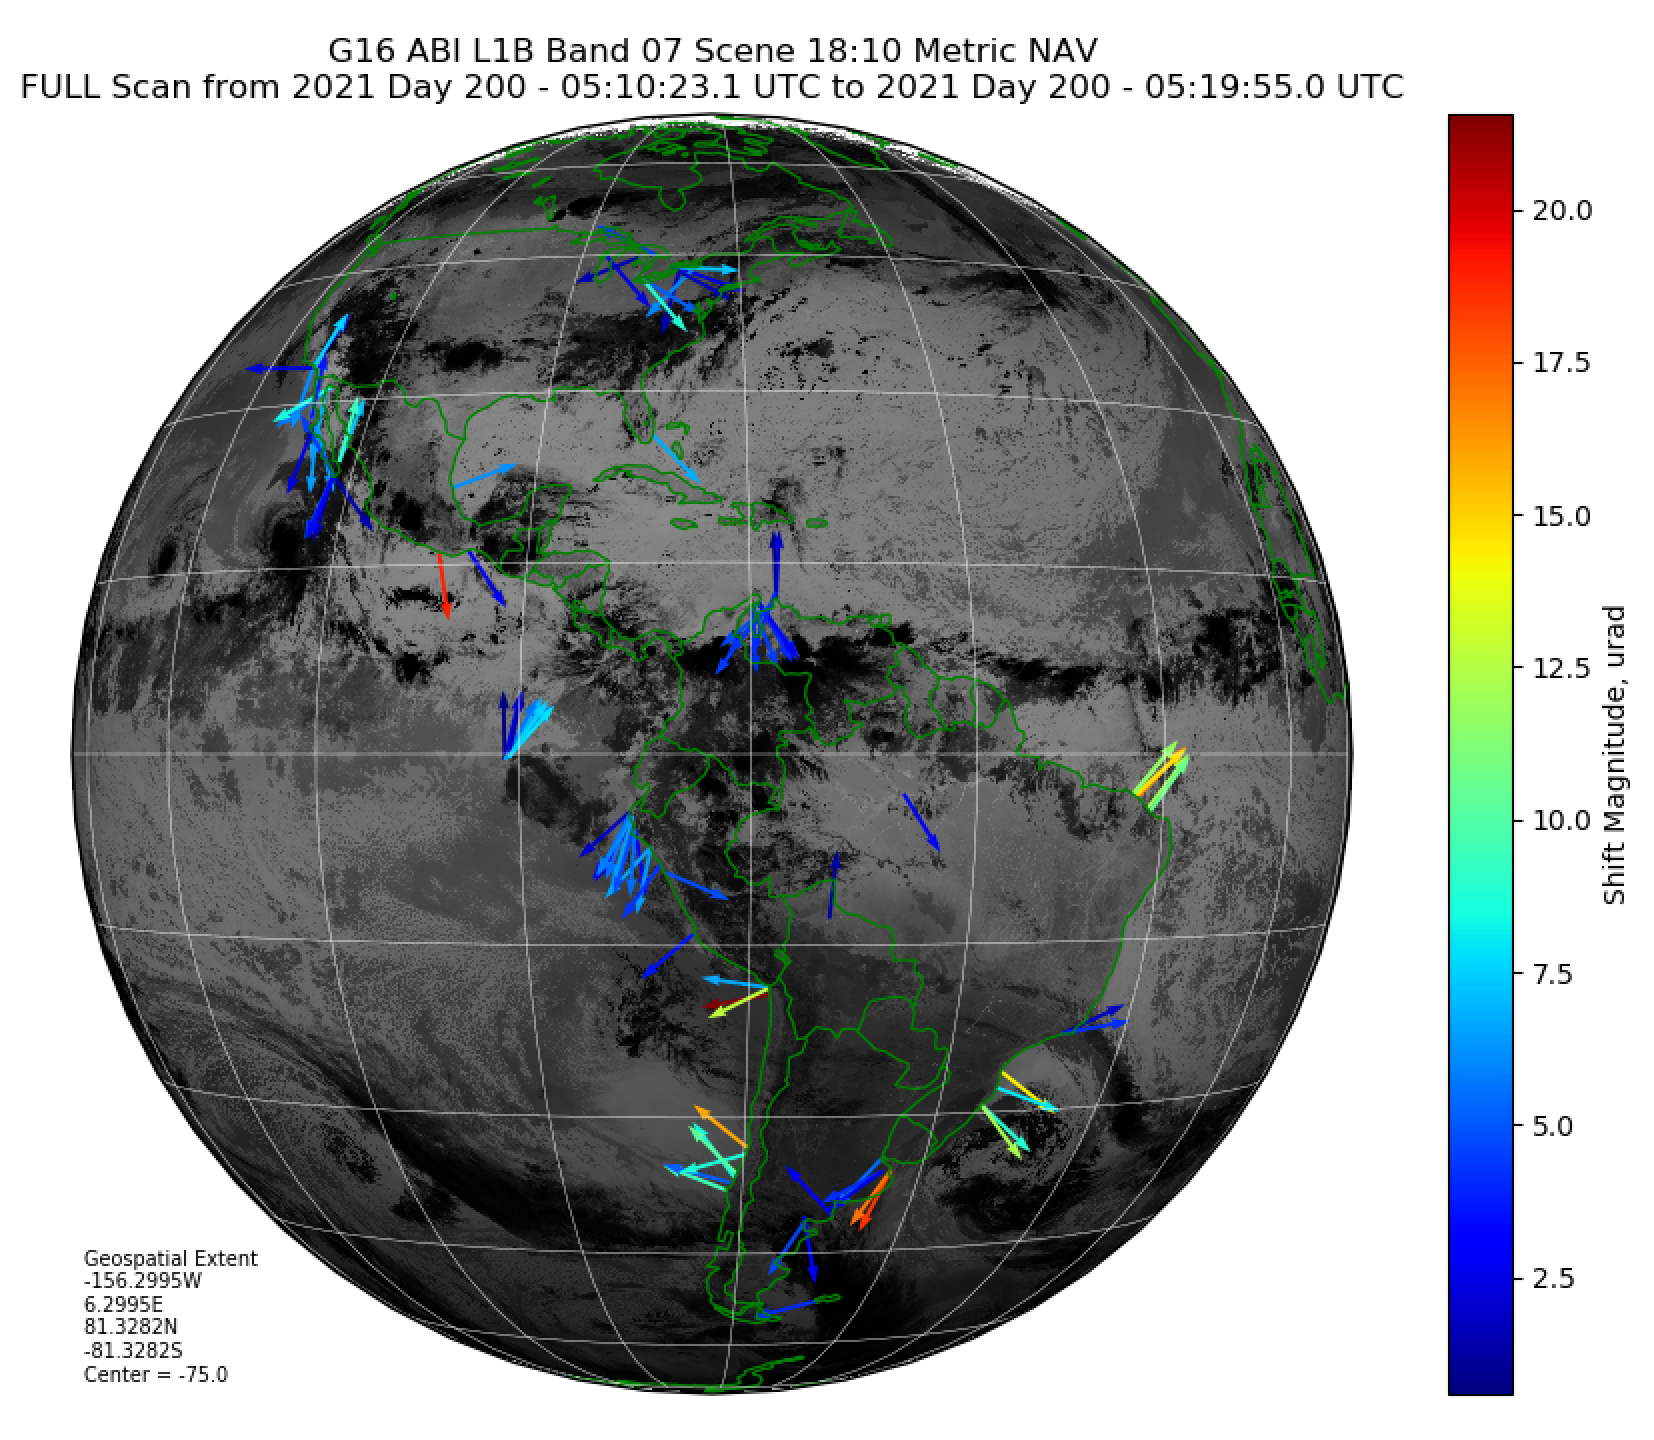
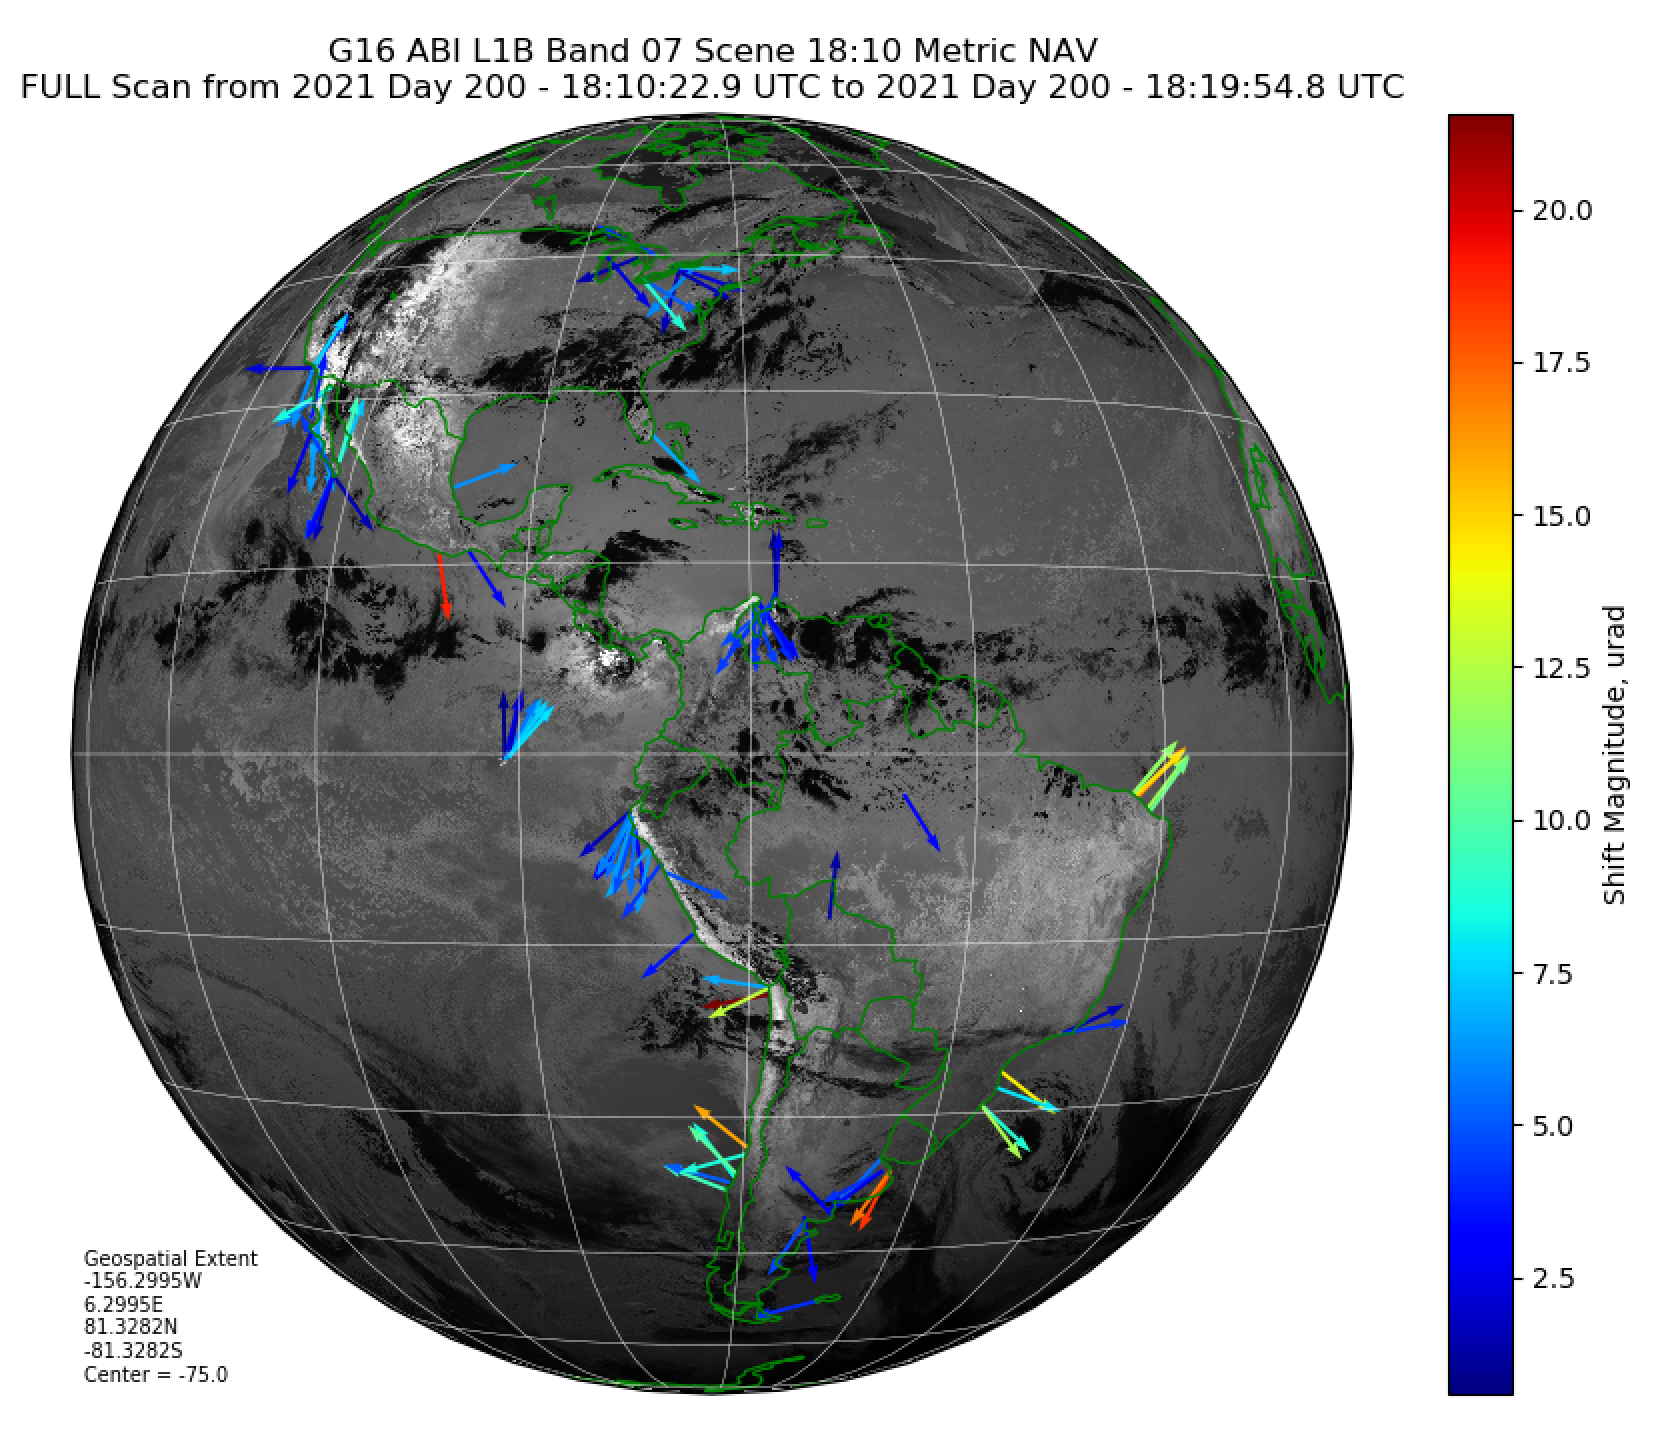
Updated the GOES image.

diff --git a/README.md b/README.md
@@ -62,8 +62,8 @@ First using a basemap:
 
 ![Visualizer with basemap](https://github.com/cgosmeyer/goes_visualizer/blob/main/images/g16_band07_2021200_basemap.png?raw=true)
 
-Second using the day 200 GOES-16 image in band 07:
+Second using the 18:00 day 200 GOES-16 image in band 07:
 
-`python visualize.py --i OR_ABI-L1b-RadF-M6C07_G16_s20212000510231_e20212000519550_c20212000519591.nc --m G16_NAV_measurements_2021_200.P20210723140726.csv.gz --s '1810-07192021' --vmax 0.0001 --overlay`
+`python visualize.py --i OR_ABI-L1b-RadF-M6C07_G16_s20212001810229_e20212001819548_c20212001819594.nc --m G16_NAV_measurements_2021_200.P20210723140726.csv.gz --s '1810-07192021' --vmax 0.0001 --overlay`
 
 ![Visualizer with GOES-16 image](https://user-images.githubusercontent.com/5558042/139359266-7da860ad-3ade-4a48-aa45-a93b15c50ac6.png)
